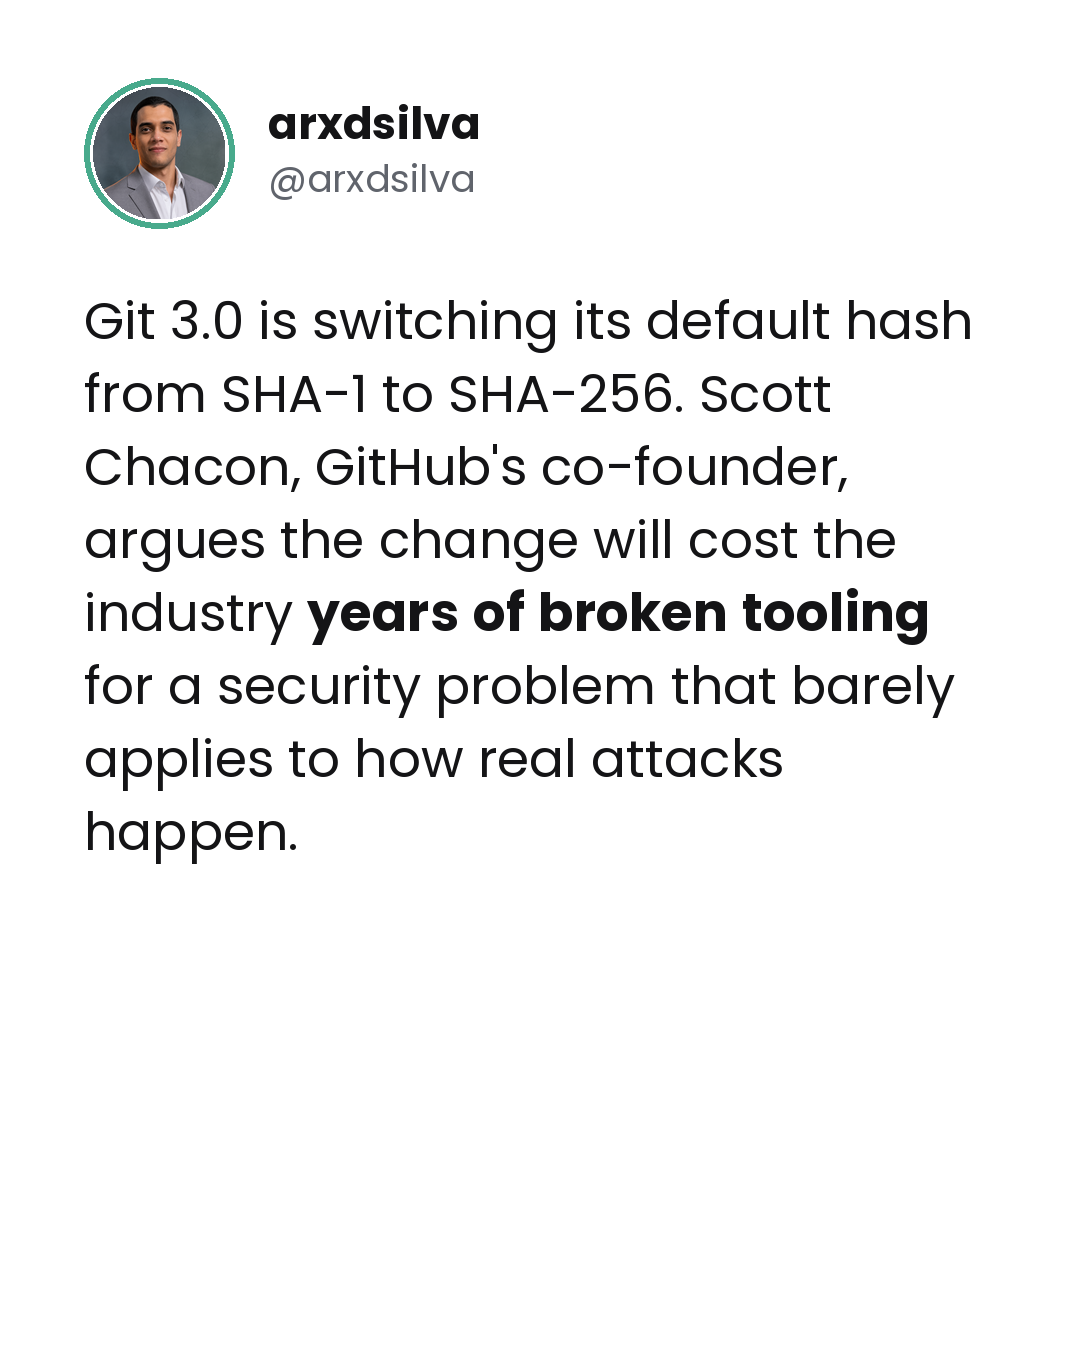
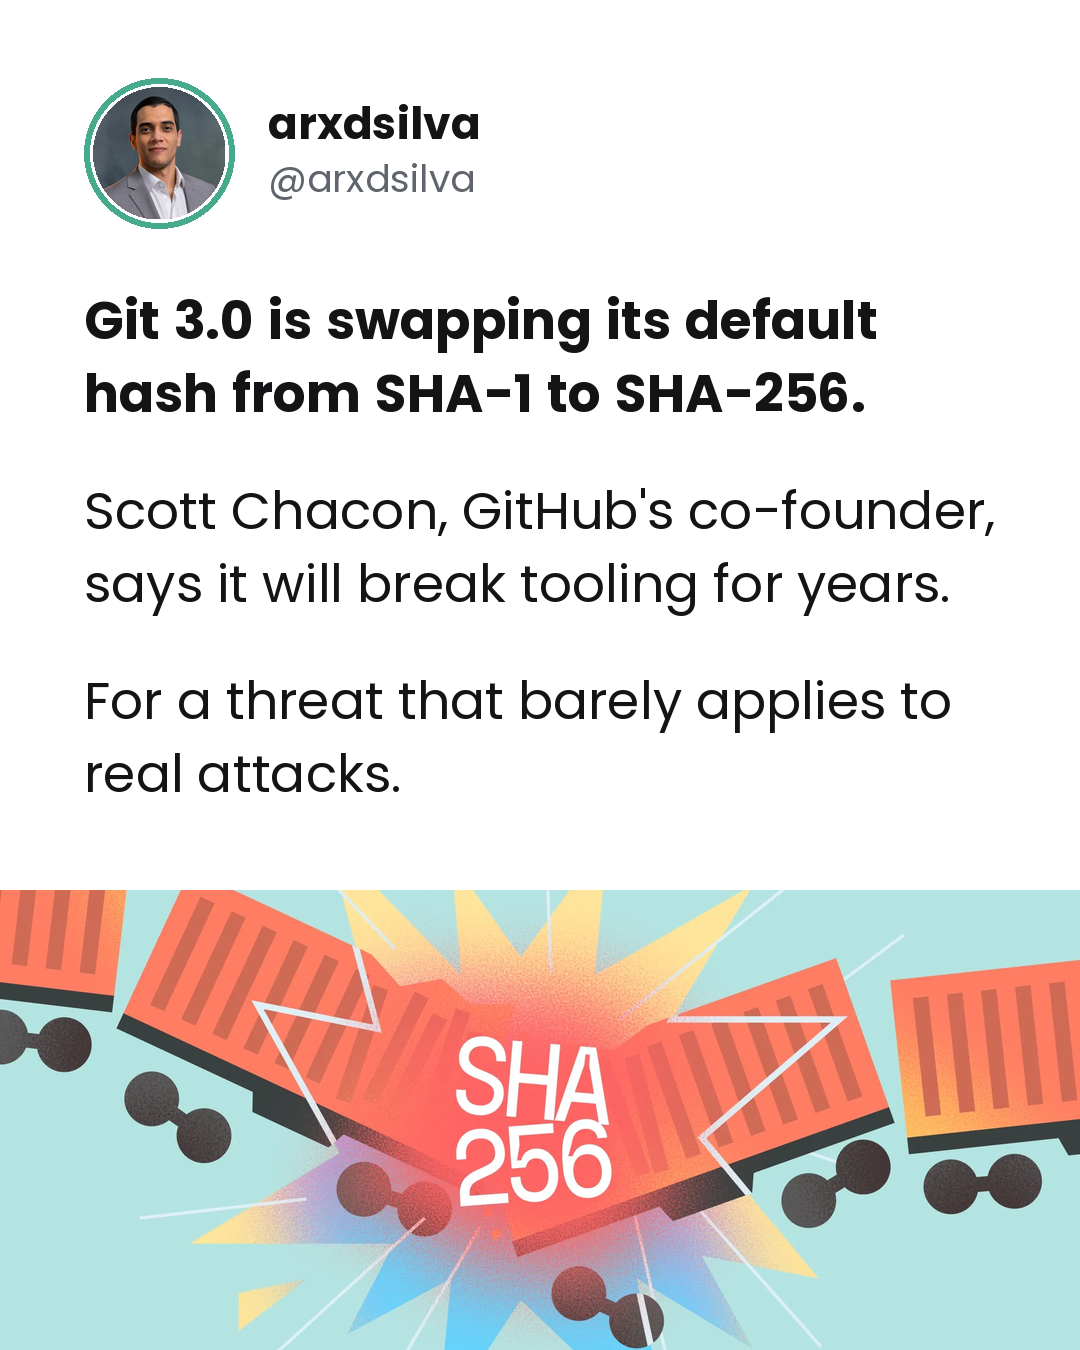
post: 2026-10-02-git-sha256-migration (rewrite)
Rewrite to the new slide format: short one-sentence paragraphs, the
article's own hero image on slide 1, bullets and panel callouts for
variety on slides without a real photo. Caption, sources, and
LinkedIn assets unchanged since the topic and claim didn't change.

Claude-Session: https://claude.ai/code/session_01CNRPjSMPnecokqt6jj56bo

diff --git a/posts/2026-10-02-git-sha256-migration/REVIEW.md b/posts/2026-10-02-git-sha256-migration/REVIEW.md
@@ -1,14 +1,17 @@
 # Review checklist — 2026-10-02-git-sha256-migration
 
 ## Claims about the owner
-- [ ] Slide 7 / linkedin.txt: "My rule before adopting any 'security upgrade': map the actual attack path first." — stated as the owner's own rule, not an invented anecdote, but confirm he's comfortable publishing it as his stance.
+- [ ] Slide 7 / linkedin.txt: "My rule: map the real attack path first." — stated as the owner's own rule, not an invented anecdote, but confirm he's comfortable publishing it as his stance.
 
 ## Numbers and facts to double-check
-- [ ] Scott Chacon identified as "GitHub's co-founder" — confirm this is still how he should be credited (he's also the GitButler co-founder and author of Pro Git; the article runs on blog.gitbutler.com).
-- [ ] $40k figure (slide 2 panel) — Chacon's own rhetorical number in the article for a hypothetical maintainer payoff, not a documented real-world incident. Framed as "per Chacon" to keep that clear.
-- [ ] "GitHub still doesn't support SHA-256 repositories at all" (slide 5) — true per the HN thread as of this writing (SHA-256 support is in closed beta); could go stale if GitHub ships it.
+- [ ] Scott Chacon identified as "GitHub's co-founder" — confirmed by the article's own byline (blog.gitbutler.com), which also credits him as a GitButler co-founder and author of Pro Git.
+- [ ] $40k figure (slide 2 bullets) — Chacon's own rhetorical number in the article for a hypothetical maintainer payoff, not a documented real-world incident.
+- [ ] "GitHub still has no public SHA-256 support" (slide 5) — true per the HN thread as of this writing (SHA-256 support is in closed beta); could go stale if GitHub ships it.
 - [ ] SHAttered (2017) and SHA-1 is a Shambles (2020) attack names/dates — taken directly from the article, not independently re-verified here.
-- [ ] FIPS 140-2 banning SHA-1 (slide 7) — sourced from a commenter's claim in the thread, not the article itself; worth a sanity check before this goes out if it needs to be airtight.
+- [ ] FIPS 140-2 banning SHA-1 (slide 7 panel) — sourced from a commenter's claim in the thread, not the article itself; worth a sanity check before this goes out if it needs to be airtight.
 
 ## Slides I'm less sure about
 - [ ] Slide 6: paraphrases Git's official hash-function-transition docs via a commenter's summary (GrantMoyer) rather than the docs directly — accurate to the thread, but double-check against git-scm.com/docs/hash-function-transition if precision matters.
+
+## Image
+- [ ] Slide 1's image (`assets/article.jpg`) is the article's own hero illustration, pulled from its `og:image` via `fetch_image.py`. It's the article's own promotional art, not a photo we have separate rights to — flagging in case that matters for how this gets posted.
